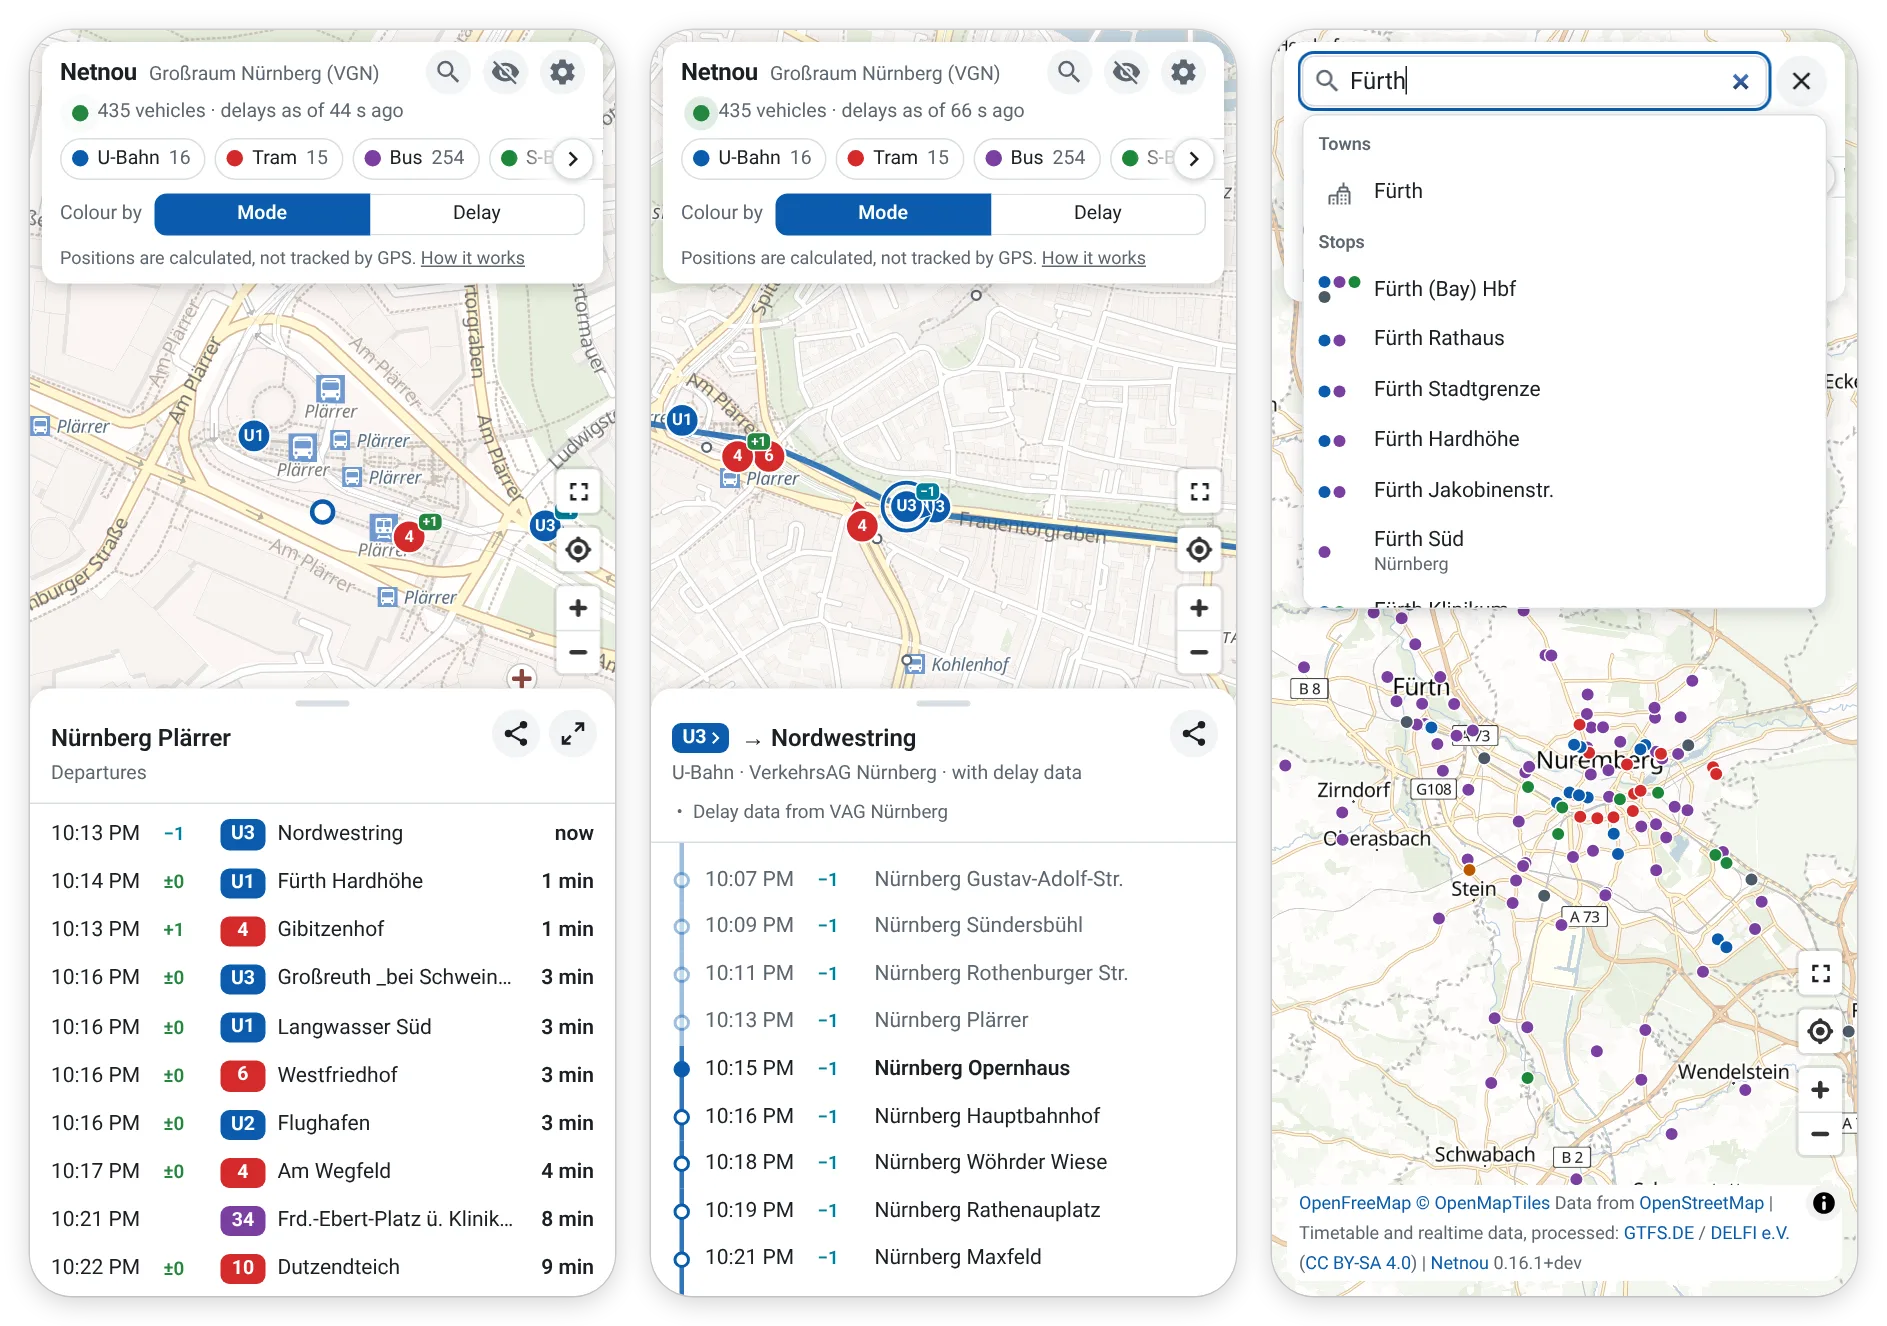
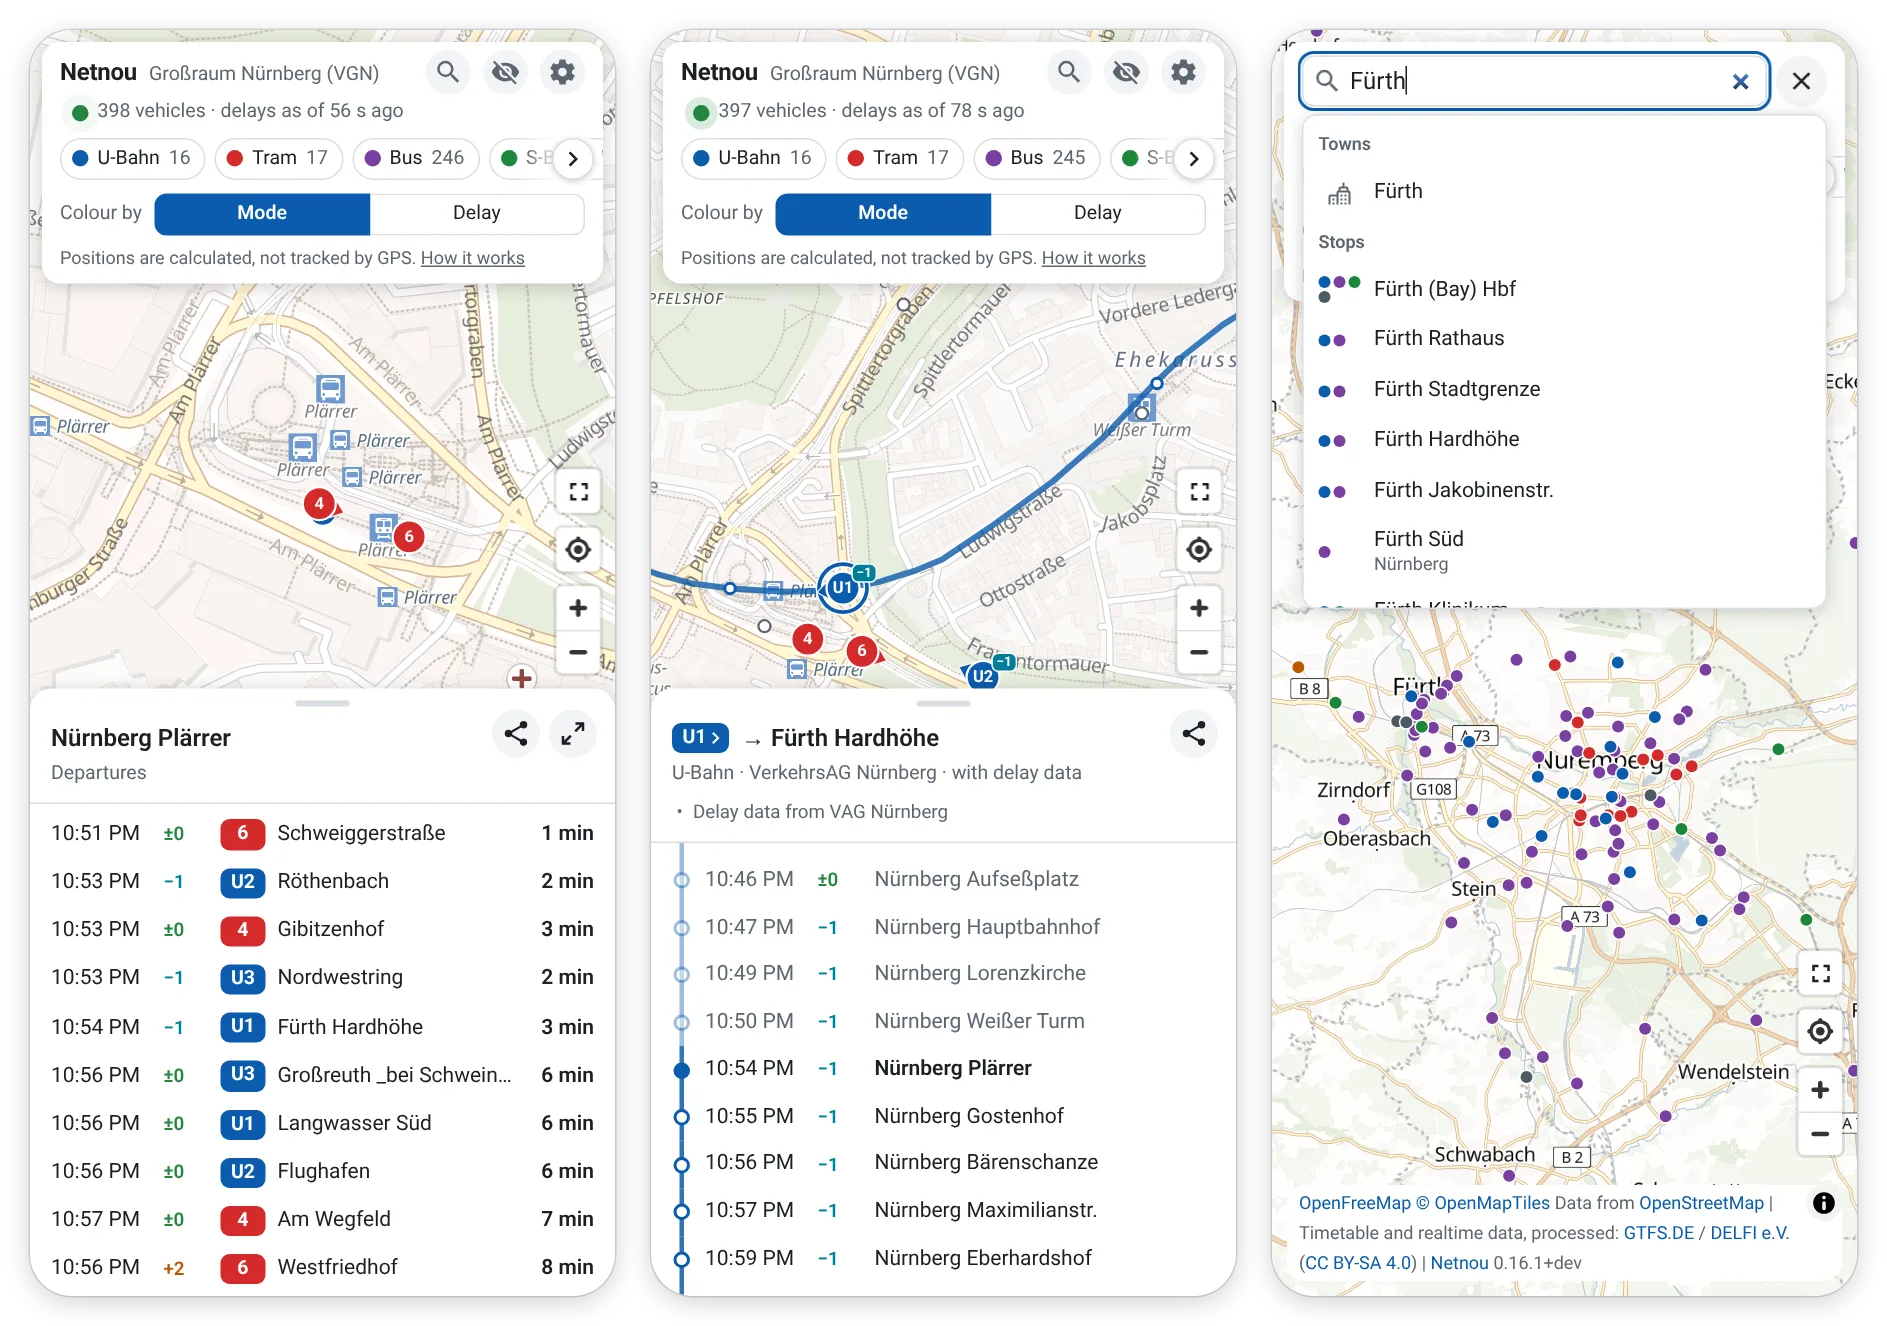
docs(readme): the usual wide view, the board as an extra, and a close-up for link previews
- The pictures follow one departure at Nürnberg Plärrer, a bus a few
  minutes late where there is one: its trip on the phone, and on the wide
  screen beside the map of the city, as the page usually looks there.
- The board beside the map becomes board.webp, shown with "Show the
  departures as a board".
- map.webp, that vehicle close up on the map alone, drawn at four times the
  pixels: build-social-preview fills the image of link previews with it in
  place of the phones, which came out too small where a preview is small.

diff --git a/CONTRIBUTING.md b/CONTRIBUTING.md
@@ -187,8 +187,9 @@ earlier ones.
   `npm run build:icons`, which needs Chrome, Chromium or Edge (set `CHROME`
   to its path if it is not found, and `CHROME_ARGS=--no-sandbox` in a
   container). Run it after changing the favicon and commit the result.
-- **`docs/pictures/*.webp`**, the pictures of the page in the READMEs, are
-  taken by `npm run build:pictures` with the same browser, from a running
+- **`docs/pictures/*.webp`**, the pictures of the page in the READMEs and the
+  close-up of a map for link previews, are taken by `npm run build:pictures`
+  with the same browser, from a running
   instance of the default area: `npm start` in another window, or the
   address of one after `--`. Take them again after a change to the look of
   the card, the details, the search or the board, at a time when much is
@@ -196,7 +197,7 @@ earlier ones.
   the instance at that moment, so no two runs give the same pictures.
 - **`docs/social-preview.png`**, the image shown where the repository is
   linked in chats and on social media, is put together from
-  `docs/pictures/phone.webp` and the favicon by `npm run build:social`, with
+  `docs/pictures/map.webp` and the favicon by `npm run build:social`, with
   the same browser. Run it after taking the pictures and commit the result.
   GitHub does not take the image from the repository: a maintainer uploads it
   under Settings → General → Social preview.

diff --git a/README.de.md b/README.de.md
@@ -20,7 +20,7 @@ Ein Fahrzeug kann also etwas vor oder hinter seiner Markierung sein.
 
 ![Drei Handys: die Abfahrten von Nürnberg Plärrer, die Fahrt einer davon mit ihrem Fahrzeug auf der Karte und die Suche, die Fürth findet](docs/pictures/phone.webp)
 
-![Ein breiter Bildschirm mit den Abfahrten von Nürnberg Hauptbahnhof als Tafel neben der Karte](docs/pictures/wide.webp)
+![Ein breiter Bildschirm, wie die Seite meist aussieht: die Fahrt einer der Abfahrten von Nürnberg Plärrer neben der Karte der Stadt](docs/pictures/wide.webp)
 
 ## Was die Karte kann
 
@@ -38,6 +38,8 @@ Ein Fahrzeug kann also etwas vor oder hinter seiner Markierung sein.
   jemandem zu zeigen, wo der Bus gerade ist.
 - **Als Tafel zeigen:** Abfahrten als große Tafel, zum Beispiel für ein
   Display an der Wand, mit bis zu vier Haltestellen.
+
+![Die Abfahrten von Nürnberg Hauptbahnhof als Tafel neben der Karte, auf einem breiten Bildschirm](docs/pictures/board.webp)
 
 Die Fahrzeuge lassen sich auch nach ihrer Verspätung einfärben. Die Karte kann
 den eigenen Standort zeigen; er bleibt im Browser. Die Seite gibt es auf

diff --git a/README.md b/README.md
@@ -19,7 +19,7 @@ delay put it. It can be a little ahead of or behind its marker.
 
 ![Three phones: the departures of Nürnberg Plärrer, the trip of one of them with its vehicle on the map, and the search finding Fürth](docs/pictures/phone.webp)
 
-![A wide screen with the departures of Nürnberg Hauptbahnhof as a board beside the map](docs/pictures/wide.webp)
+![A wide screen as the page usually looks: the trip of one of the departures of Nürnberg Plärrer beside the map of the city](docs/pictures/wide.webp)
 
 ## What you can do
 
@@ -36,6 +36,8 @@ delay put it. It can be a little ahead of or behind its marker.
   bus is right now.
 - **Show the departures as a board**, in large type for a screen on the wall,
   with up to four stops.
+
+![The departures of Nürnberg Hauptbahnhof as a board beside the map, on a wide screen](docs/pictures/board.webp)
 
 The vehicles can also be coloured by their delay, the map can show your own
 location (it stays in your browser), and the page speaks German and
